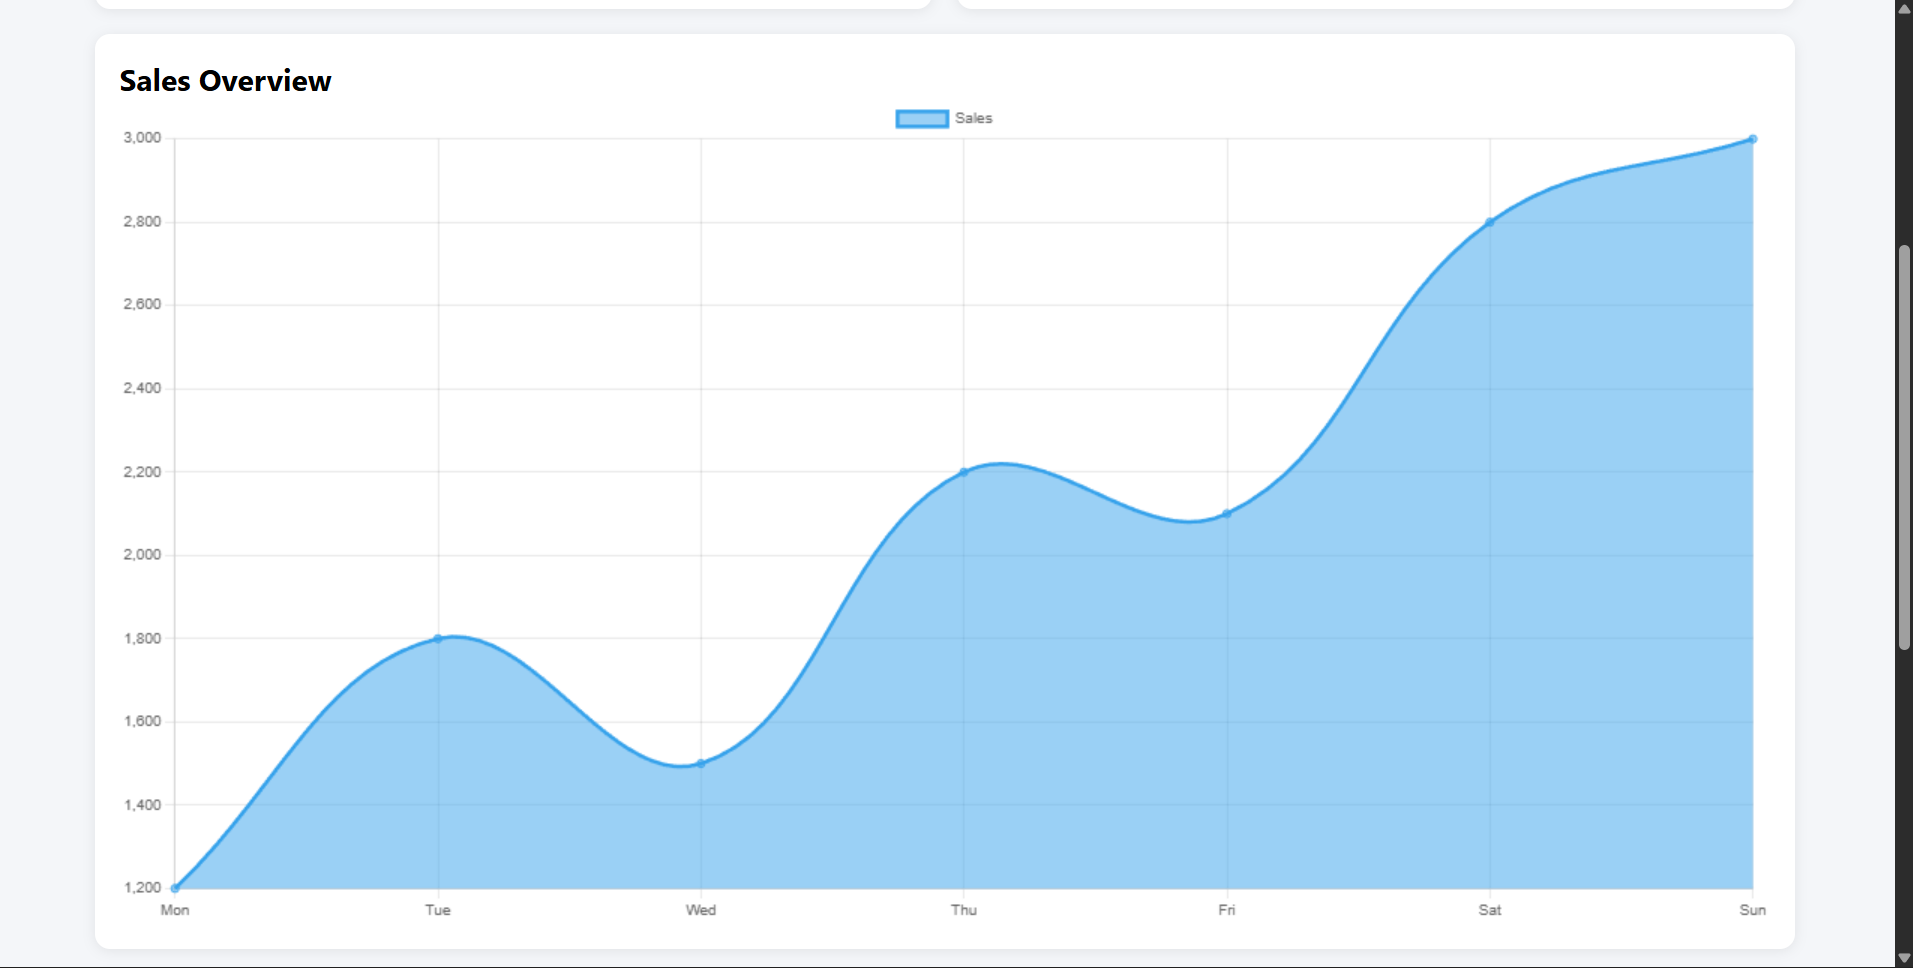
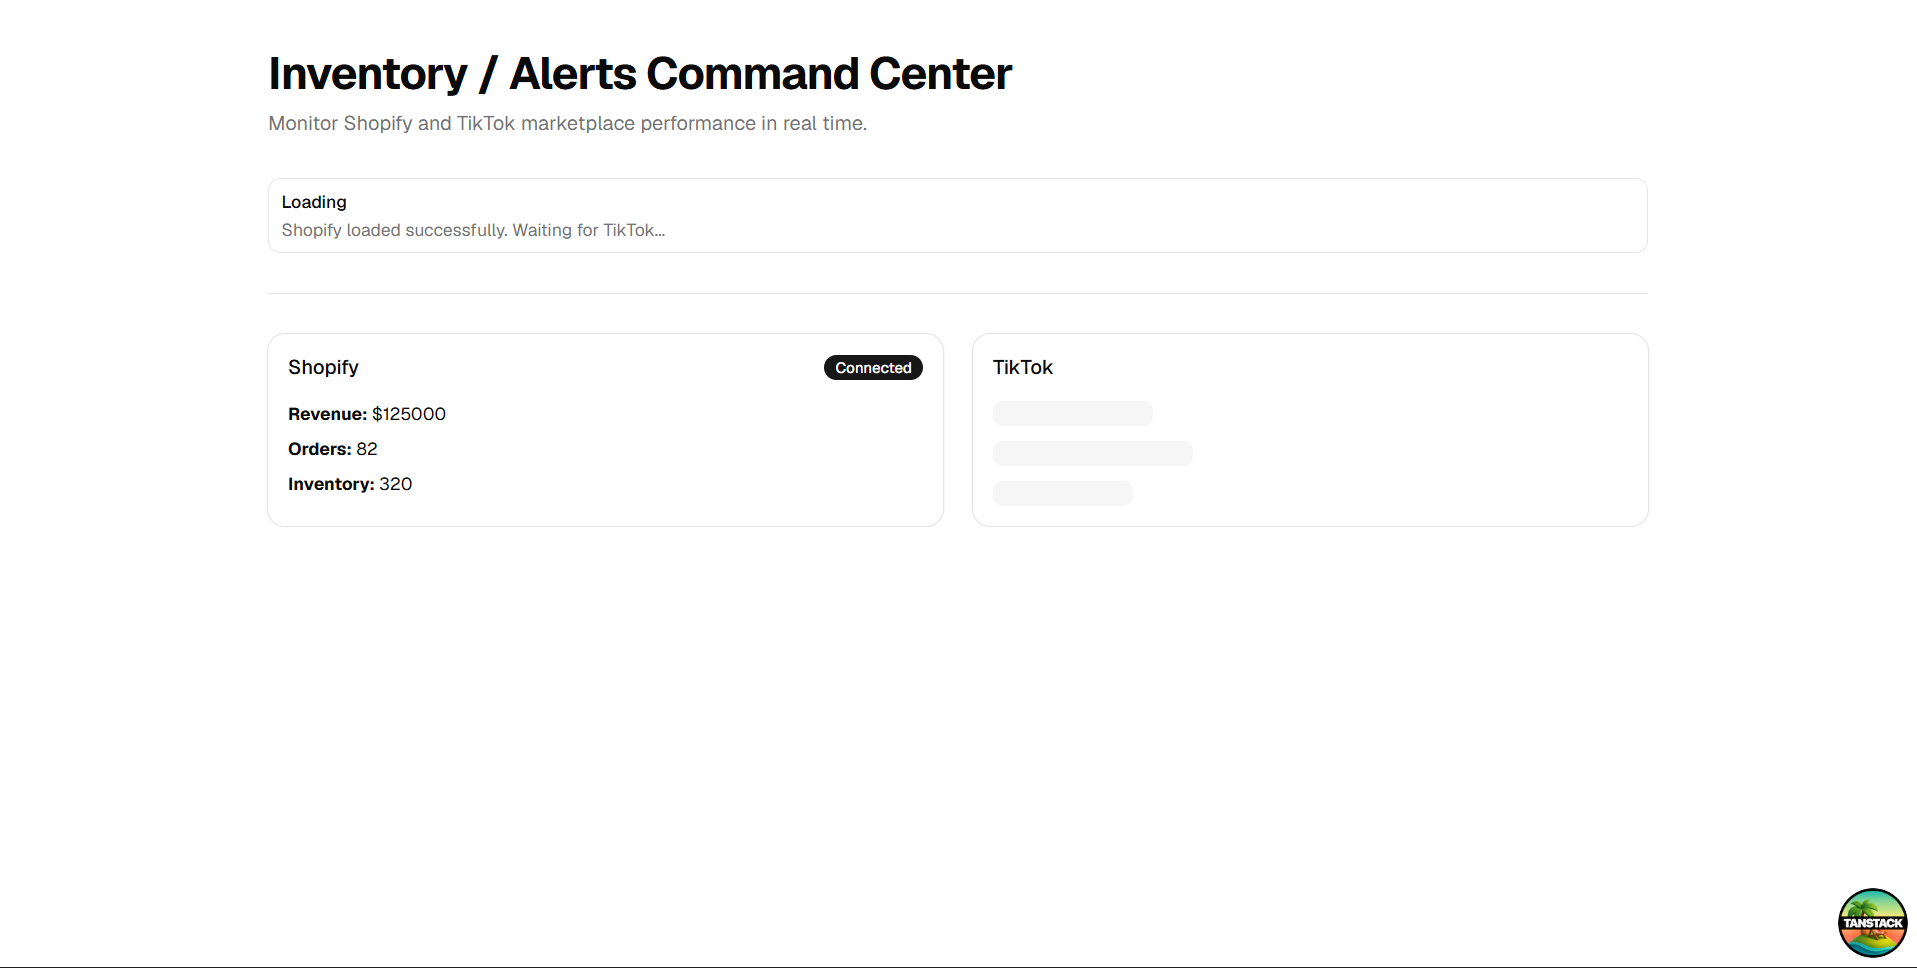
done

diff --git a/frontend/src/routes/index.tsx b/frontend/src/routes/index.tsx
@@ -34,41 +34,55 @@ function Home() {
   const [shopifyLoading, setShopifyLoading] = useState(true)
   const [tiktokLoading, setTiktokLoading] = useState(true)
 
+  const [shopifyError, setShopifyError] = useState(false)
   const [tiktokError, setTiktokError] = useState(false)
 
   // Shopify (Fast API)
   useEffect(() => {
     getShopifyData()
-      .then((data) => setShopify(data))
-      .finally(() => setShopifyLoading(false))
+      .then((data) => {
+        setShopify(data)
+      })
+      .catch(() => {
+        setShopifyError(true)
+      })
+      .finally(() => {
+        setShopifyLoading(false)
+      })
   }, [])
 
   // TikTok (Slow / Error API)
   useEffect(() => {
     getTikTokData()
-      .then((data) => setTiktok(data))
-      .catch(() => setTiktokError(true))
-      .finally(() => setTiktokLoading(false))
+      .then((data) => {
+        setTiktok(data)
+      })
+      .catch(() => {
+        setTiktokError(true)
+      })
+      .finally(() => {
+        setTiktokLoading(false)
+      })
   }, [])
 
   return (
-    <main className="container mx-auto max-w-6xl py-10 px-6 space-y-8">
-
+    <main className="container mx-auto max-w-6xl px-6 py-10 space-y-8">
       {/* HEADER */}
       <div>
         <h1 className="text-4xl font-bold tracking-tight">
           Inventory / Alerts Command Center
         </h1>
 
-        <p className="text-muted-foreground mt-2">
+        <p className="mt-2 text-muted-foreground">
           Monitor Shopify and TikTok marketplace performance in real time.
         </p>
       </div>
 
-      {/* STATUS */}
+      {/* STATUS BAR */}
       <StatusBar
         shopifyLoading={shopifyLoading}
         tiktokLoading={tiktokLoading}
+        shopifyError={shopifyError}
         tiktokError={tiktokError}
       />
 
@@ -76,25 +90,24 @@ function Home() {
 
       {/* DASHBOARD */}
       <div className="grid gap-6 md:grid-cols-2">
-
-        {/* Shopify */}
+        {/* SHOPIFY */}
         {shopifyLoading ? (
           <LoadingCard title="Shopify" />
-        ) : (
-          shopify && <ShopifyCard data={shopify} />
-        )}
+        ) : shopifyError ? (
+          <ErrorCard title="Shopify" />
+        ) : shopify ? (
+          <ShopifyCard data={shopify} />
+        ) : null}
 
-        {/* TikTok */}
+        {/* TIKTOK */}
         {tiktokLoading ? (
           <LoadingCard title="TikTok" />
         ) : tiktokError ? (
           <ErrorCard title="TikTok" />
-        ) : (
-          tiktok && <TikTokCard data={tiktok} />
-        )}
-
+        ) : tiktok ? (
+          <TikTokCard data={tiktok} />
+        ) : null}
       </div>
-
     </main>
   )
 }

diff --git a/frontend/src/components/dashboard/StatusBar.tsx b/frontend/src/components/dashboard/StatusBar.tsx
@@ -7,15 +7,17 @@ import {
 type Props = {
   shopifyLoading: boolean
   tiktokLoading: boolean
+  shopifyError: boolean
   tiktokError: boolean
 }
 
 export default function StatusBar({
   shopifyLoading,
   tiktokLoading,
+  shopifyError,
   tiktokError,
 }: Props) {
-
+  // Shopify is still loading
   if (shopifyLoading) {
     return (
       <Alert>
@@ -27,7 +29,20 @@ export default function StatusBar({
     )
   }
 
-  if (!shopifyLoading && tiktokLoading) {
+  // Shopify failed (Full Error)
+  if (shopifyError) {
+    return (
+      <Alert variant="destructive">
+        <AlertTitle>Error</AlertTitle>
+        <AlertDescription>
+          Shopify failed to load. Dashboard data is unavailable.
+        </AlertDescription>
+      </Alert>
+    )
+  }
+
+  // Shopify loaded, TikTok still loading
+  if (tiktokLoading) {
     return (
       <Alert>
         <AlertTitle>Loading</AlertTitle>
@@ -38,17 +53,19 @@ export default function StatusBar({
     )
   }
 
+  // Shopify loaded, TikTok failed (Partial Success)
   if (tiktokError) {
     return (
       <Alert variant="destructive">
         <AlertTitle>Partial Success</AlertTitle>
         <AlertDescription>
-          Shopify is available but TikTok failed to load.
+          Shopify is available, but TikTok failed to load.
         </AlertDescription>
       </Alert>
     )
   }
 
+  // Everything loaded successfully
   return (
     <Alert>
       <AlertTitle>Success</AlertTitle>

diff --git a/README.md b/README.md
@@ -65,5 +65,67 @@ Frontend: http://localhost:3000
 
 Backend: http://localhost:3001
 
+# UI States
+
+### Loading
+
+Displays loading cards while waiting for API responses.
+
+![Loading](pic/1.png)
+
+---
+
+### ✅ Shopify Loaded, Waiting for TikTok
+
+Shopify data is loaded successfully while the application continues waiting for the slower TikTok API response.
+
+![Shopify Loaded, Waiting for TikTok](pic/2.png)
+
+---
+
+### Success
+
+Both Shopify and TikTok data are loaded successfully.
+
+![Success](pic/3.png)
+
+---
+
+### Partial Success
+
+Shopify loads successfully while TikTok returns an error.
+
+![Partial Success](pic/4.png)
+
+---
+
+### Error
+
+To test the full **Error** state, temporarily modify the Shopify endpoint in `backend/server.js`:
+
+```javascript
+app.get("/shopify_data", (req, res) => {
+  res.status(500).json({
+    error: "Shopify unavailable",
+  })
+})
+```
+
+Restart the backend:
+
+```bash
+npm start
+```
+
+The frontend will display the Shopify **Error** state.
+
+![Error](pic/5.png)
+
 
 The dashboard demonstrates the required **Loading**, **Success**, **Partial Success**, and **Error** states using mocked API responses.
+
+**JARELL E. PORTILLAS**  
+Bachelor of Science in Information Technology (BSIT) Graduate  
+Junior Fullstack Engineer Applicant  
+
+Thank you for reviewing my technical assignment for the Junior Fullstack Engineer role at **Gyud Technologies**.